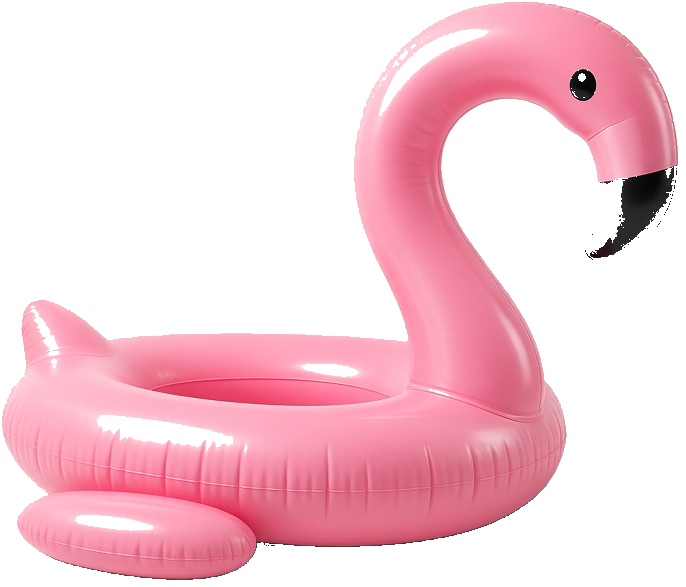
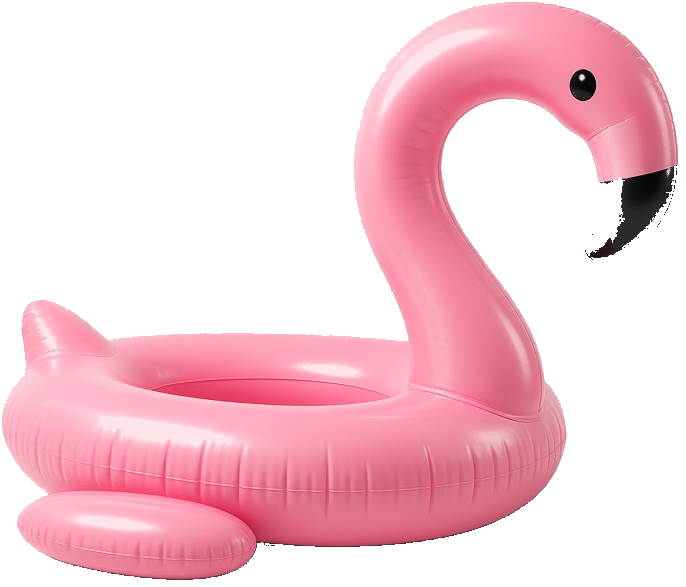
fix: center Calendario header, Android-only updates, flamingo PNG (v1.7.1)
Match Calendario page head to Tareas (centered WoodLogo + FancyTitle) with
avatar absolute top-right. Render Actualizaciones only on Android. Fill
semi-transparent near-white flamingo highlight holes.

diff --git a/src/components/UpdatesSection.tsx b/src/components/UpdatesSection.tsx
@@ -1,7 +1,6 @@
 import { useCallback, useState } from 'react';
 import {
   ActivityIndicator,
-  Linking,
   Platform,
   Pressable,
   StyleSheet,
@@ -14,7 +13,6 @@ import {
   downloadAndInstallApk,
   fetchLatestApkRelease,
   getAppVersion,
-  RELEASES_PAGE,
   type ApkRelease,
 } from '@/src/lib/appUpdates';
 import { colors, radius, shadow } from '@/src/theme';
@@ -32,10 +30,6 @@ type Status =
 export function UpdatesSection() {
   const version = getAppVersion();
   const [status, setStatus] = useState<Status>({ kind: 'idle' });
-
-  const openReleases = useCallback(() => {
-    Linking.openURL(RELEASES_PAGE).catch(() => {});
-  }, []);
 
   const check = useCallback(async () => {
     setStatus({ kind: 'checking' });
@@ -79,7 +73,10 @@ export function UpdatesSection() {
     }
   }, []);
 
-  const isWeb = Platform.OS === 'web';
+  // Actualizaciones is Android/APK only — never show on web.
+  if (Platform.OS !== 'android') {
+    return null;
+  }
 
   return (
     <GlassCard padding={18} style={styles.card}>
@@ -89,77 +86,62 @@ export function UpdatesSection() {
       </View>
       <Text style={styles.version}>Versión instalada: {version}</Text>
 
-      {isWeb ? (
-        <>
-          <Text style={styles.hint}>
-            En la web no se instalan APKs. Revisa los releases en GitHub para descargar la app
-            Android.
-          </Text>
-          <Pressable onPress={openReleases} style={[styles.btn, styles.btnSecondary]}>
-            <Ionicons name="open-outline" size={18} color={colors.tealDeep} />
-            <Text style={styles.btnSecondaryText}>Ver releases en GitHub</Text>
-          </Pressable>
-        </>
-      ) : (
-        <>
-          {status.kind === 'idle' || status.kind === 'upToDate' || status.kind === 'error' ? (
-            <Pressable onPress={check} style={[styles.btn, styles.btnPrimary]}>
-              <Ionicons name="refresh" size={18} color={colors.white} />
-              <Text style={styles.btnPrimaryText}>Buscar actualizaciones</Text>
-            </Pressable>
-          ) : null}
+      {status.kind === 'idle' || status.kind === 'upToDate' || status.kind === 'error' ? (
+        <Pressable onPress={check} style={[styles.btn, styles.btnPrimary]}>
+          <Ionicons name="refresh" size={18} color={colors.white} />
+          <Text style={styles.btnPrimaryText}>Buscar actualizaciones</Text>
+        </Pressable>
+      ) : null}
 
-          {status.kind === 'checking' ? (
-            <View style={styles.row}>
-              <ActivityIndicator color={colors.teal} />
-              <Text style={styles.hint}>Buscando en GitHub…</Text>
-            </View>
-          ) : null}
+      {status.kind === 'checking' ? (
+        <View style={styles.row}>
+          <ActivityIndicator color={colors.teal} />
+          <Text style={styles.hint}>Buscando en GitHub…</Text>
+        </View>
+      ) : null}
 
-          {status.kind === 'upToDate' ? (
-            <Text style={styles.ok}>Ya tienes la última versión.</Text>
-          ) : null}
+      {status.kind === 'upToDate' ? (
+        <Text style={styles.ok}>Ya tienes la última versión.</Text>
+      ) : null}
 
-          {status.kind === 'available' ? (
-            <View style={styles.available}>
-              <Text style={styles.newVer}>Nueva versión: {status.release.version}</Text>
-              {status.release.notes ? (
-                <Text style={styles.notes} numberOfLines={8}>
-                  {status.release.notes}
-                </Text>
-              ) : null}
-              <Pressable
-                onPress={() => install(status.release)}
-                style={[styles.btn, styles.btnPrimary]}
-              >
-                <Ionicons name="download-outline" size={18} color={colors.white} />
-                <Text style={styles.btnPrimaryText}>Descargar e instalar</Text>
-              </Pressable>
-            </View>
-          ) : null}
-
-          {status.kind === 'downloading' ? (
-            <View style={styles.progressWrap}>
-              <Text style={styles.hint}>
-                Descargando… {Math.round(status.progress * 100)}%
-              </Text>
-              <View style={styles.barBg}>
-                <View
-                  style={[styles.barFill, { width: `${Math.round(status.progress * 100)}%` }]}
-                />
-              </View>
-            </View>
-          ) : null}
-
-          {status.kind === 'installing' ? (
-            <Text style={styles.hint}>
-              Abriendo el instalador de Android… Confirma la instalación cuando aparezca.
+      {status.kind === 'available' ? (
+        <View style={styles.available}>
+          <Text style={styles.newVer}>Nueva versión: {status.release.version}</Text>
+          {status.release.notes ? (
+            <Text style={styles.notes} numberOfLines={8}>
+              {status.release.notes}
             </Text>
           ) : null}
+          <Pressable
+            onPress={() => install(status.release)}
+            style={[styles.btn, styles.btnPrimary]}
+          >
+            <Ionicons name="download-outline" size={18} color={colors.white} />
+            <Text style={styles.btnPrimaryText}>Descargar e instalar</Text>
+          </Pressable>
+        </View>
+      ) : null}
 
-          {status.kind === 'error' ? <Text style={styles.err}>{status.message}</Text> : null}
-        </>
-      )}
+      {status.kind === 'downloading' ? (
+        <View style={styles.progressWrap}>
+          <Text style={styles.hint}>
+            Descargando… {Math.round(status.progress * 100)}%
+          </Text>
+          <View style={styles.barBg}>
+            <View
+              style={[styles.barFill, { width: `${Math.round(status.progress * 100)}%` }]}
+            />
+          </View>
+        </View>
+      ) : null}
+
+      {status.kind === 'installing' ? (
+        <Text style={styles.hint}>
+          Abriendo el instalador de Android… Confirma la instalación cuando aparezca.
+        </Text>
+      ) : null}
+
+      {status.kind === 'error' ? <Text style={styles.err}>{status.message}</Text> : null}
     </GlassCard>
   );
 }
@@ -188,12 +170,6 @@ const styles = StyleSheet.create({
   },
   btnPrimary: { backgroundColor: colors.teal },
   btnPrimaryText: { color: colors.white, fontWeight: '800', fontSize: 14 },
-  btnSecondary: {
-    backgroundColor: colors.aquaMist,
-    borderWidth: 1,
-    borderColor: 'rgba(15,168,168,0.35)',
-  },
-  btnSecondaryText: { color: colors.tealDeep, fontWeight: '800', fontSize: 14 },
   progressWrap: { marginTop: 4, gap: 8 },
   barBg: {
     height: 8,

diff --git a/src/components/CalendarHeader.tsx b/src/components/CalendarHeader.tsx
@@ -46,16 +46,13 @@ export function CalendarHeader({
   return (
     <View style={styles.wrap}>
       <View style={styles.pageHead}>
-        <View style={styles.logoRow}>
-          <WoodLogo size="sm" />
-          <View style={{ flex: 1 }} />
-          <Pressable onPress={onProfile} hitSlop={8}>
-            <Avatar name={staffName} uri={avatarUrl} size={36} />
-          </Pressable>
-        </View>
+        <WoodLogo size="sm" />
         <FancyTitle size={28} tilt={-5} style={styles.pageTitle}>
           Calendario
         </FancyTitle>
+        <Pressable onPress={onProfile} hitSlop={8} style={styles.avatarBtn}>
+          <Avatar name={staffName} uri={avatarUrl} size={36} />
+        </Pressable>
       </View>
 
       <View style={styles.tools}>
@@ -88,16 +85,18 @@ const styles = StyleSheet.create({
     gap: 10,
   },
   pageHead: {
-    gap: 4,
-  },
-  logoRow: {
-    flexDirection: 'row',
     alignItems: 'center',
-    gap: 8,
+    paddingHorizontal: 2,
+    position: 'relative',
   },
   pageTitle: {
-    marginTop: 4,
-    marginLeft: 2,
+    marginTop: 8,
+  },
+  avatarBtn: {
+    position: 'absolute',
+    top: 0,
+    right: 0,
+    zIndex: 2,
   },
   tools: {
     gap: 10,

diff --git a/app/(app)/(tabs)/mas.tsx b/app/(app)/(tabs)/mas.tsx
@@ -1,6 +1,6 @@
 import Constants from 'expo-constants';
 import { useRouter } from 'expo-router';
-import { Pressable, ScrollView, StyleSheet, Text, View } from 'react-native';
+import { Platform, Pressable, ScrollView, StyleSheet, Text, View } from 'react-native';
 import { useSafeTop } from '@/src/hooks/useSafeTop';
 import { Ionicons } from '@expo/vector-icons';
 import { Avatar } from '@/src/components/Avatar';
@@ -48,6 +48,8 @@ export default function MasScreen() {
               clientes y eventos internos en un solo lugar, con sincronización en tiempo real.
             </Text>
           </GlassCard>
+
+          {Platform.OS === 'android' ? <UpdatesSection /> : null}
 
           <Pressable
             onPress={() => router.push('/(app)/perfil')}
